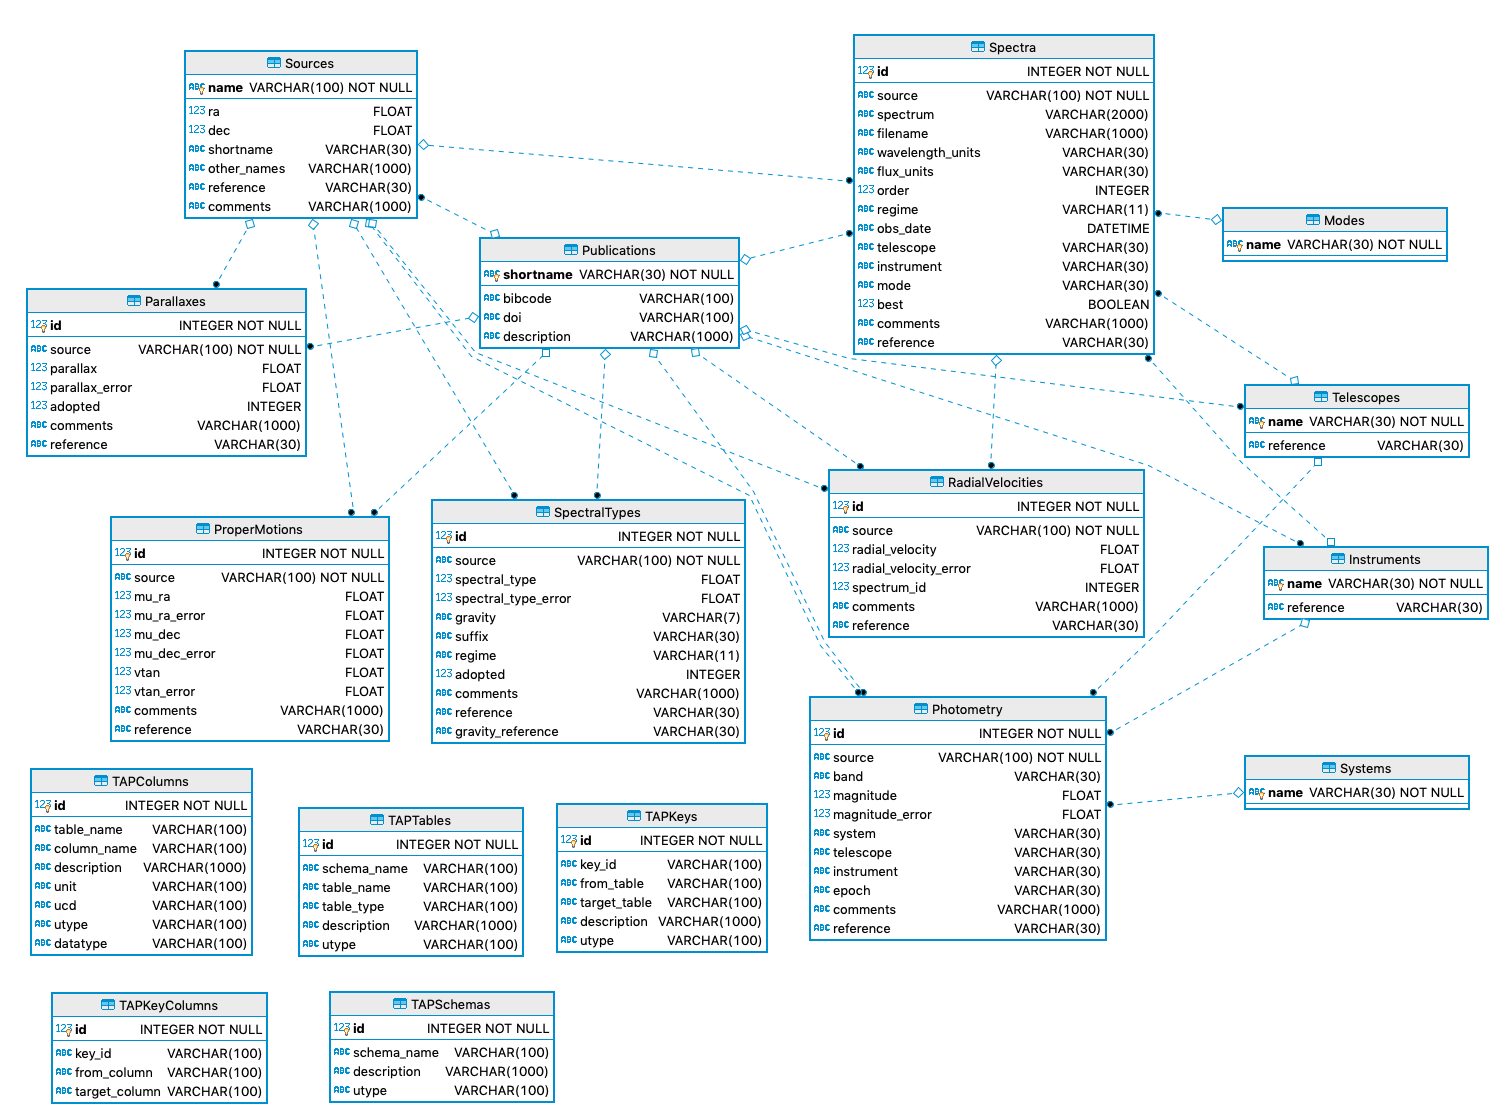
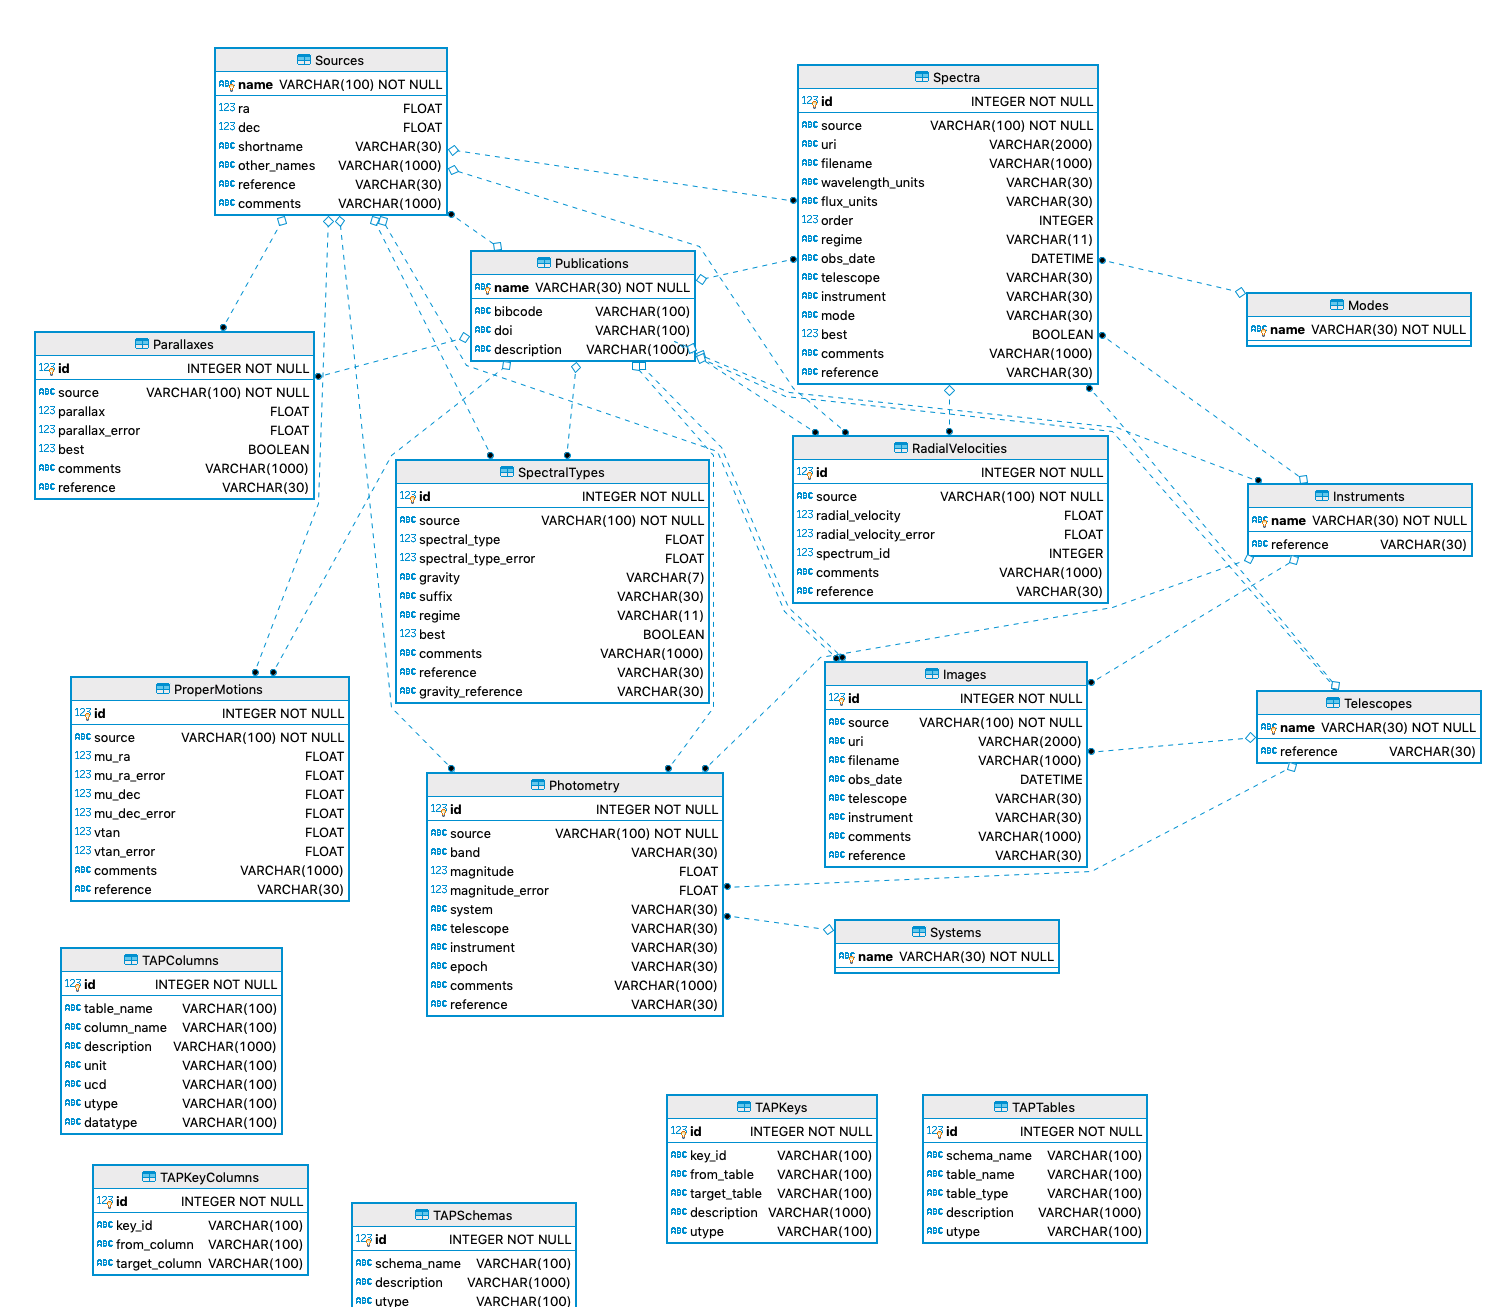
adding Images table to schema, with some minor changes as well

diff --git a/simple/schema.py b/simple/schema.py
@@ -11,7 +11,7 @@ class Publications(Base):
     """
     __tablename__ = 'Publications'
     # id = Column(Integer, primary_key=True, nullable=False, autoincrement=True)
-    shortname = Column(String(30), primary_key=True, nullable=False)
+    name = Column(String(30), primary_key=True, nullable=False)
     bibcode = Column(String(100))
     doi = Column(String(100))
     description = Column(String(1000))
@@ -20,13 +20,13 @@ class Publications(Base):
 class Telescopes(Base):
     __tablename__ = 'Telescopes'
     name = Column(String(30), primary_key=True, nullable=False)
-    reference = Column(String(30), ForeignKey('Publications.shortname'))
+    reference = Column(String(30), ForeignKey('Publications.name'))
 
 
 class Instruments(Base):
     __tablename__ = 'Instruments'
     name = Column(String(30), primary_key=True, nullable=False)
-    reference = Column(String(30), ForeignKey('Publications.shortname'))
+    reference = Column(String(30), ForeignKey('Publications.name'))
 
 
 class Systems(Base):
@@ -70,9 +70,9 @@ class Sources(Base):
     name = Column(String(100), primary_key=True, nullable=False)
     ra = Column(Float)
     dec = Column(Float)
-    shortname = Column(String(30))
+    shortname = Column(String(30))  # not needed?
     other_names = Column(String(1000))
-    reference = Column(String(30), ForeignKey('Publications.shortname'))
+    reference = Column(String(30), ForeignKey('Publications.name'))
     comments = Column(String(1000))
 
 
@@ -86,10 +86,10 @@ class SpectralTypes(Base):
     gravity = Column(Enum(Gravity))  # restricts to enumerated values
     suffix = Column(String(30))
     regime = Column(Enum(Regime))  # restricts to two values: Optical, Infrared
-    adopted = Column(Integer)
+    best = Column(Boolean)  # flag for indicating if this is the best measurement or not
     comments = Column(String(1000))
-    reference = Column(String(30), ForeignKey('Publications.shortname'))
-    gravity_reference = Column(String(30), ForeignKey('Publications.shortname'))
+    reference = Column(String(30), ForeignKey('Publications.name'))
+    gravity_reference = Column(String(30), ForeignKey('Publications.name'))
 
 
 class Parallaxes(Base):
@@ -99,9 +99,9 @@ class Parallaxes(Base):
     source = Column(String(100), ForeignKey('Sources.name'), nullable=False)
     parallax = Column(Float)
     parallax_error = Column(Float)
-    adopted = Column(Integer)
+    best = Column(Boolean)  # flag for indicating if this is the best measurement or not
     comments = Column(String(1000))
-    reference = Column(String(30), ForeignKey('Publications.shortname'))
+    reference = Column(String(30), ForeignKey('Publications.name'))
 
 
 class Photometry(Base):
@@ -117,7 +117,7 @@ class Photometry(Base):
     instrument = Column(String(30), ForeignKey('Instruments.name'))
     epoch = Column(String(30))
     comments = Column(String(1000))
-    reference = Column(String(30), ForeignKey('Publications.shortname'))
+    reference = Column(String(30), ForeignKey('Publications.name'))
 
 
 class ProperMotions(Base):
@@ -132,7 +132,7 @@ class ProperMotions(Base):
     vtan = Column(Float)
     vtan_error = Column(Float)
     comments = Column(String(1000))
-    reference = Column(String(30), ForeignKey('Publications.shortname'))
+    reference = Column(String(30), ForeignKey('Publications.name'))
 
 
 class Spectra(Base):
@@ -140,7 +140,7 @@ class Spectra(Base):
     id = Column(Integer, primary_key=True, nullable=False, autoincrement=True)
     # source_id = Column(Integer, ForeignKey('Sources.id'))
     source = Column(String(100), ForeignKey('Sources.name'), nullable=False)
-    spectrum = Column(String(2000))  # URI/Path to file
+    uri = Column(String(2000))  # URI/Path to file
     filename = Column(String(1000))  # filename
     wavelength_units = Column(String(30))
     flux_units = Column(String(30))
@@ -152,7 +152,7 @@ class Spectra(Base):
     mode = Column(String(30), ForeignKey('Modes.name'))
     best = Column(Boolean)  # flag for indicating if this is the best spectrum or not
     comments = Column(String(1000))
-    reference = Column(String(30), ForeignKey('Publications.shortname'))
+    reference = Column(String(30), ForeignKey('Publications.name'))
 
 
 class RadialVelocities(Base):
@@ -164,7 +164,22 @@ class RadialVelocities(Base):
     radial_velocity_error = Column(Float)
     spectrum_id = Column(Integer, ForeignKey('Spectra.id'))
     comments = Column(String(1000))
-    reference = Column(String(30), ForeignKey('Publications.shortname'))
+    reference = Column(String(30), ForeignKey('Publications.name'))
+
+
+class Images(Base):
+    __tablename__ = 'Images'
+    id = Column(Integer, primary_key=True, nullable=False, autoincrement=True)
+    source = Column(String(100), ForeignKey('Sources.name'), nullable=False)
+    uri = Column(String(2000))  # URI/Path to file
+    filename = Column(String(1000))  # filename
+    obs_date = Column(DateTime)
+    telescope = Column(String(30), ForeignKey('Telescopes.name'))
+    instrument = Column(String(30), ForeignKey('Instruments.name'))
+    comments = Column(String(1000))
+    reference = Column(String(30), ForeignKey('Publications.name'))
+
+# TODO: As an alternative to Images, Spectra, we could consider ObsCore, though we may need some additions
 
 
 # -------------------------------------------------------------------------------------------------------------------
